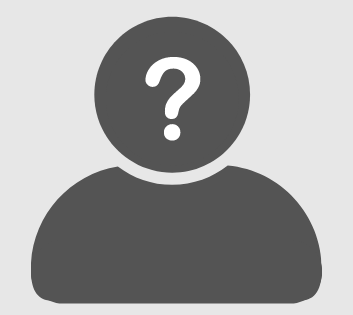
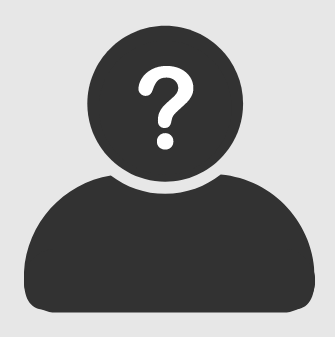
changed colour of images/ empty basket styling

diff --git a/src/main/resources/templates/basket.html b/src/main/resources/templates/basket.html
@@ -29,10 +29,18 @@
 
     </div>
 
-    <div class="importContainer text-center">
+    <div class="basket-notlogged" th:if="${empty}">
+      <div class="image-notlogged">
+        <img src="/Images/emptybasket.png" alt="Image not loading" class="centered">
+      </div>
+      <div class="text-notlogged">
+        <p>Your basket is currently empty.</p>
+      </div>
+      <div class="button-tolog">
+        <button> CONTINUE SHOPPING
+        </button>
+      </div>
 
-      <div th:if="${empty}" class="mt-2 alert alert-secondary">
-        Your basket is currently empty right now.
     </div>
 
     <div class="basket-active" th:if="${listBaskets != null}">
@@ -99,4 +107,5 @@
       location.href = "/basket/edit/" + id;
     }
   </script>
+  <div th:replace="fragments/footer :: footer"></div>
 </html>
